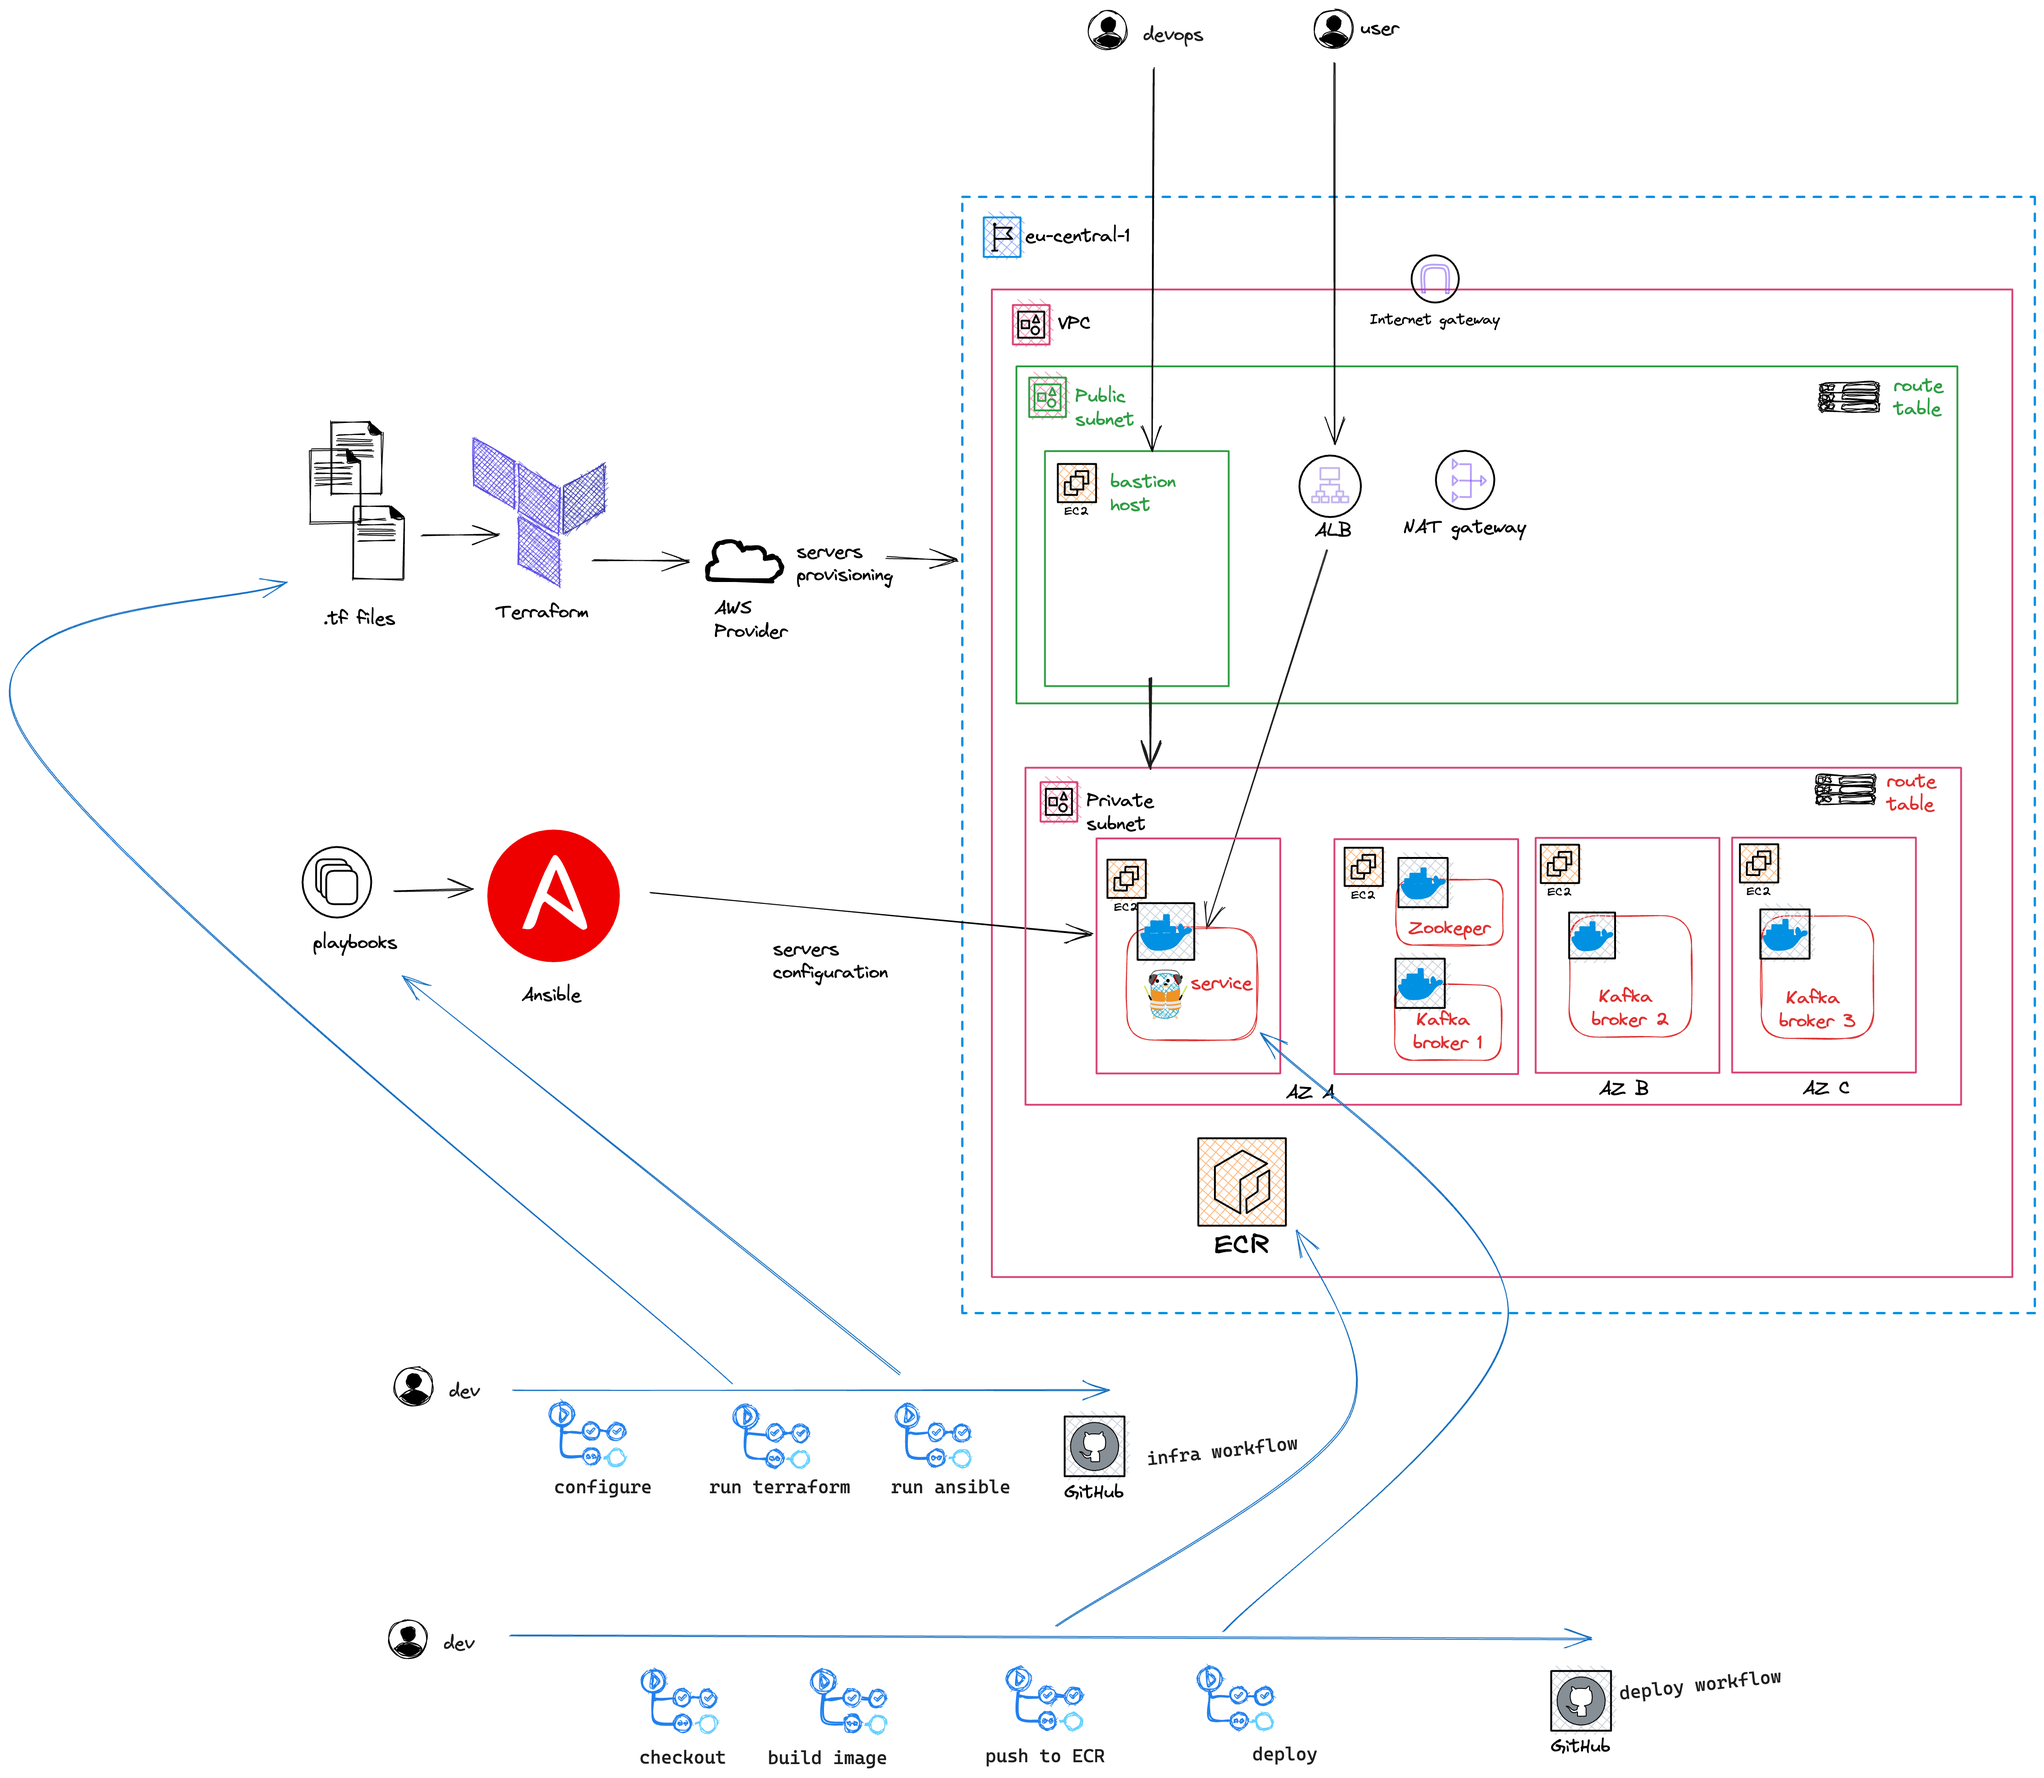
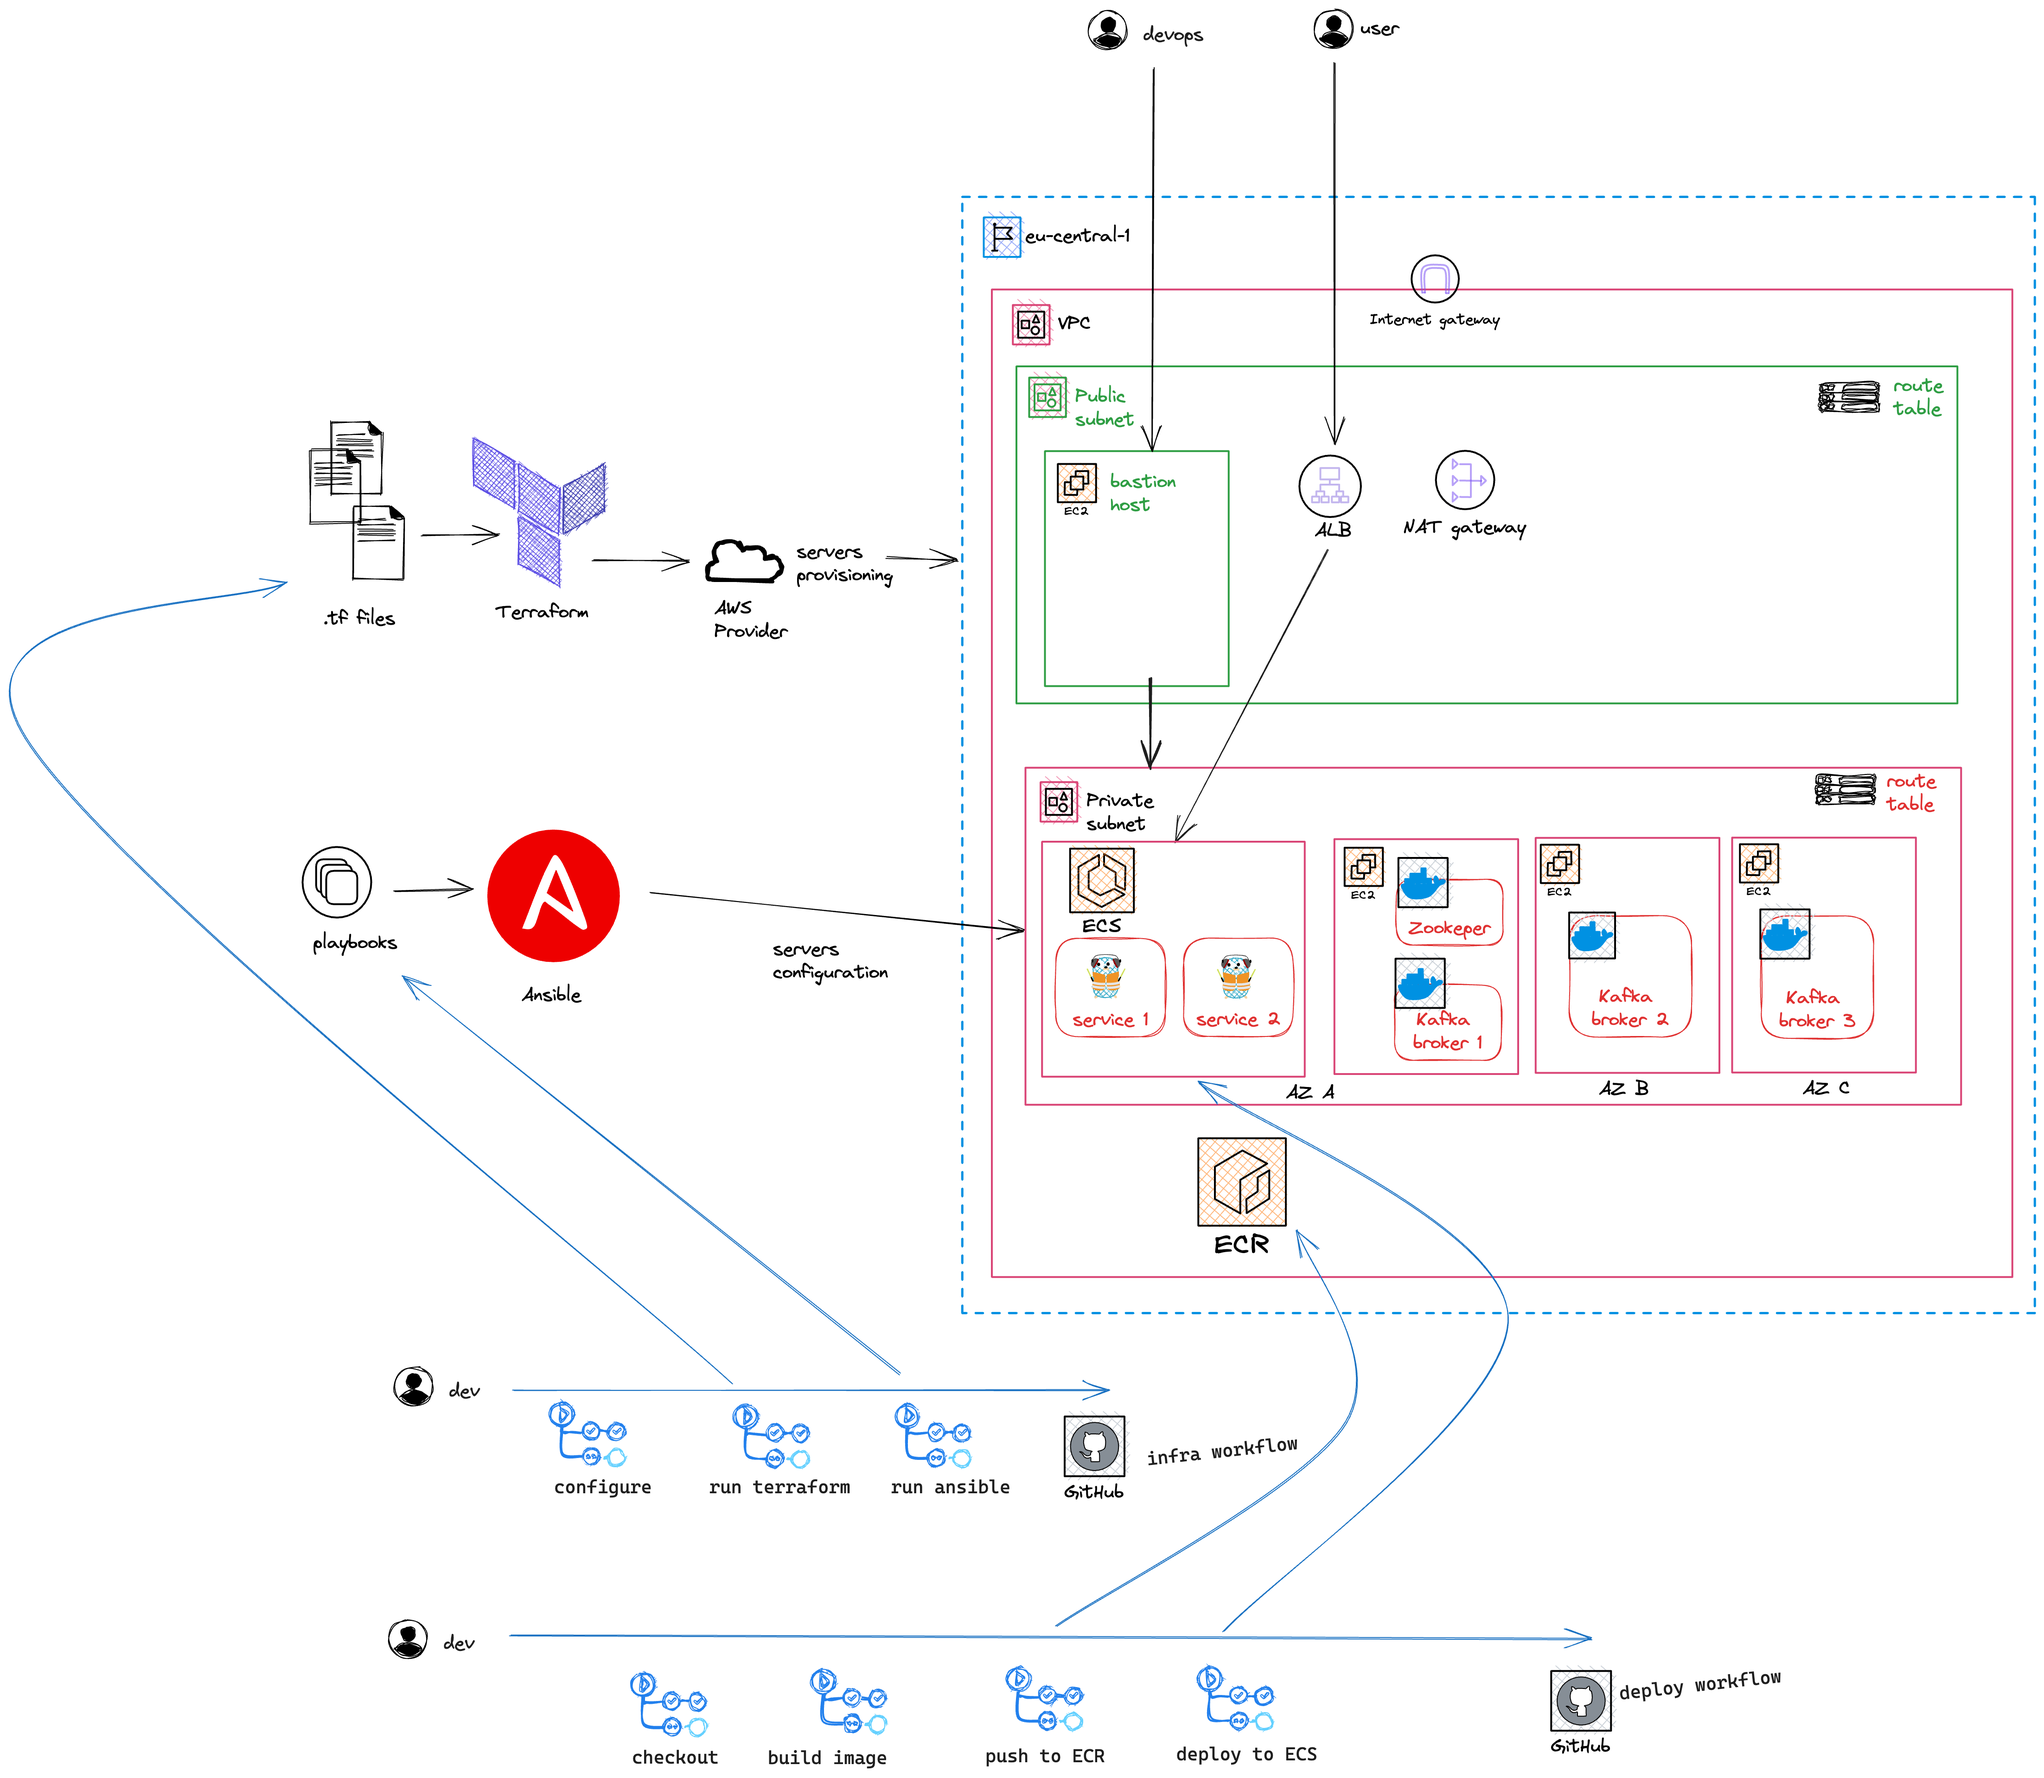
update docs

Changed region(s): [[0.4973, 0.4656, 0.6527, 0.6208], [0.3108, 0.9311, 0.373, 0.9932]]

diff --git a/lab-kafka/README.md b/lab-kafka/README.md
@@ -2,7 +2,7 @@
 The lab environment will host a Kafka cluster of three nodes using Amazon EC2 instances.
 Nodes will be running inside self managed docker containers.
 
-Another EC2 instance will host go microservices that will produce and consume messages from the Kafka cluster
+In the same private subnet an ECS cluster will host microservices that will produce and consume messages from the Kafka cluster
 
 The entire infrastructure will be provisioned using terraform and ansible and the deployment
 automation will be done using Github actions
@@ -15,11 +15,13 @@ The lab will allow me to learn and practice the following:
 
 * [X] Set up CI pipeline for infrastructure provisioning and deployment:
   - [X] Use Terraform to provision the AWS infrastructure
-  - [X] Use Ansible to configure the EC2 instances and deploy the microservices.
+  - [X] Use Ansible to configure the EC2 instances
   - [X] Use GitHub Actions to automate the CI pipeline.
 * [X] Set up classic three tier AWS architecture:
-  - [X] Setup private and public subnets with bastion host in public subnet and kafka nodes in private subnet
+  - [X] Setup private and public subnets with bastion host in public subnet and kafka nodes and ECS cluster in private subnet
   - [X] Provision EC2 instances based Amazon Linux 2 AMI.
+  - [X] Provision ECS cluster for hosting containerized microservices.
+  - [X] Setup ALB for load balancing and routing traffic to ECS cluster.
   - [X] Ensure that the instances have appropriate security groups, and network settings:
       - [X] allow inbound and outbound traffic for Kafka ports (e.g., 9092) only between the EC2 instances within the private subnet.
       - [X] allow inbound traffic for SSH from the bastion host only.
@@ -31,21 +33,20 @@ The lab will allow me to learn and practice the following:
        - [X] Create a docker-compose.yml files for each cluster node. These files will define the services and configurations for the Kafka cluster.
        - [X] Configure Kafka and ensure that the Kafka instances have sufficient resources and are properly networked within the EC2 cluster.
        - [X] Install ZooKeeper on first EC2 instance only and colocate it with Kafka broker running already on the same server. (cost optimization, not a best practice)
-* [ ] Build Docker images for each microservice:
+* [X] Set up ECS cluster:
   - [X] For each microservice create a Dockerfile that defines the container image.
-  - [ ] Use appropriate base image for Go applications and specify the necessary dependencies and build instructions.
-  - [ ] Build the Docker image for each microservice using a command like docker build -t <image-name> ..
-* [ ] Deploy microservices on the EC2 cluster:
-  - [ ] Create deployment scripts
-  - [ ] Launch containers for each microservice on the EC2 instances using the Docker images built earlier.
-  - [ ] Configure the microservices to connect to the appropriate Kafka broker(s) and subscribe to the relevant topics.
-* [ ] Set up load balancing and networking:
-  - [ ] Configure a load balancer (e.g., Elastic Load Balancer) to distribute incoming traffic across the EC2 instances running the microservices.
+  - [X] Use appropriate base image for Go applications and specify the necessary dependencies and build instructions.
+  - [X] Create ECS service and task definition for each microservice.
+  - [X] Build the Docker image for each microservice using a command like docker build -t <image-name> ..
+  - [X] Deploy microservices on the ECS cluster:
+  - [X] Configure the microservices to connect to the appropriate Kafka broker(s) and subscribe to the relevant topics.
+* [o] Set up load balancing and networking:
+  - [X] Configure an applications load balancer to distribute incoming traffic across the ECS instances running the microservices.
   - [ ] Ensure that the load balancer is properly configured to handle the gRPC communication ports for each microservice.
-* [ ] Apply security best practices to secure the EC2 instances, including using security groups to control inbound and outbound traffic, configuring SSL/TLS for gRPC communication, and securing access to Kafka and other services.
+* [X] Apply security best practices to secure the EC2 instances, including using security groups to control inbound and outbound traffic, configuring SSL/TLS for gRPC communication, and securing access to Kafka and other services.
 * [ ] Monitor and scale:
   - [ ] Implement monitoring and logging mechanisms to track the health and performance of the deployed system. Use tools like CloudWatch, Prometheus, or ELK stack for monitoring and log analysis.
-  - [ ] Set up autoscaling policies to automatically scale the EC2 cluster based on resource utilization or other metrics.
+  - [ ] Set up autoscaling policies to automatically scale the ECS cluster based on resource utilization or other metrics.
 
 ## How to run
 
